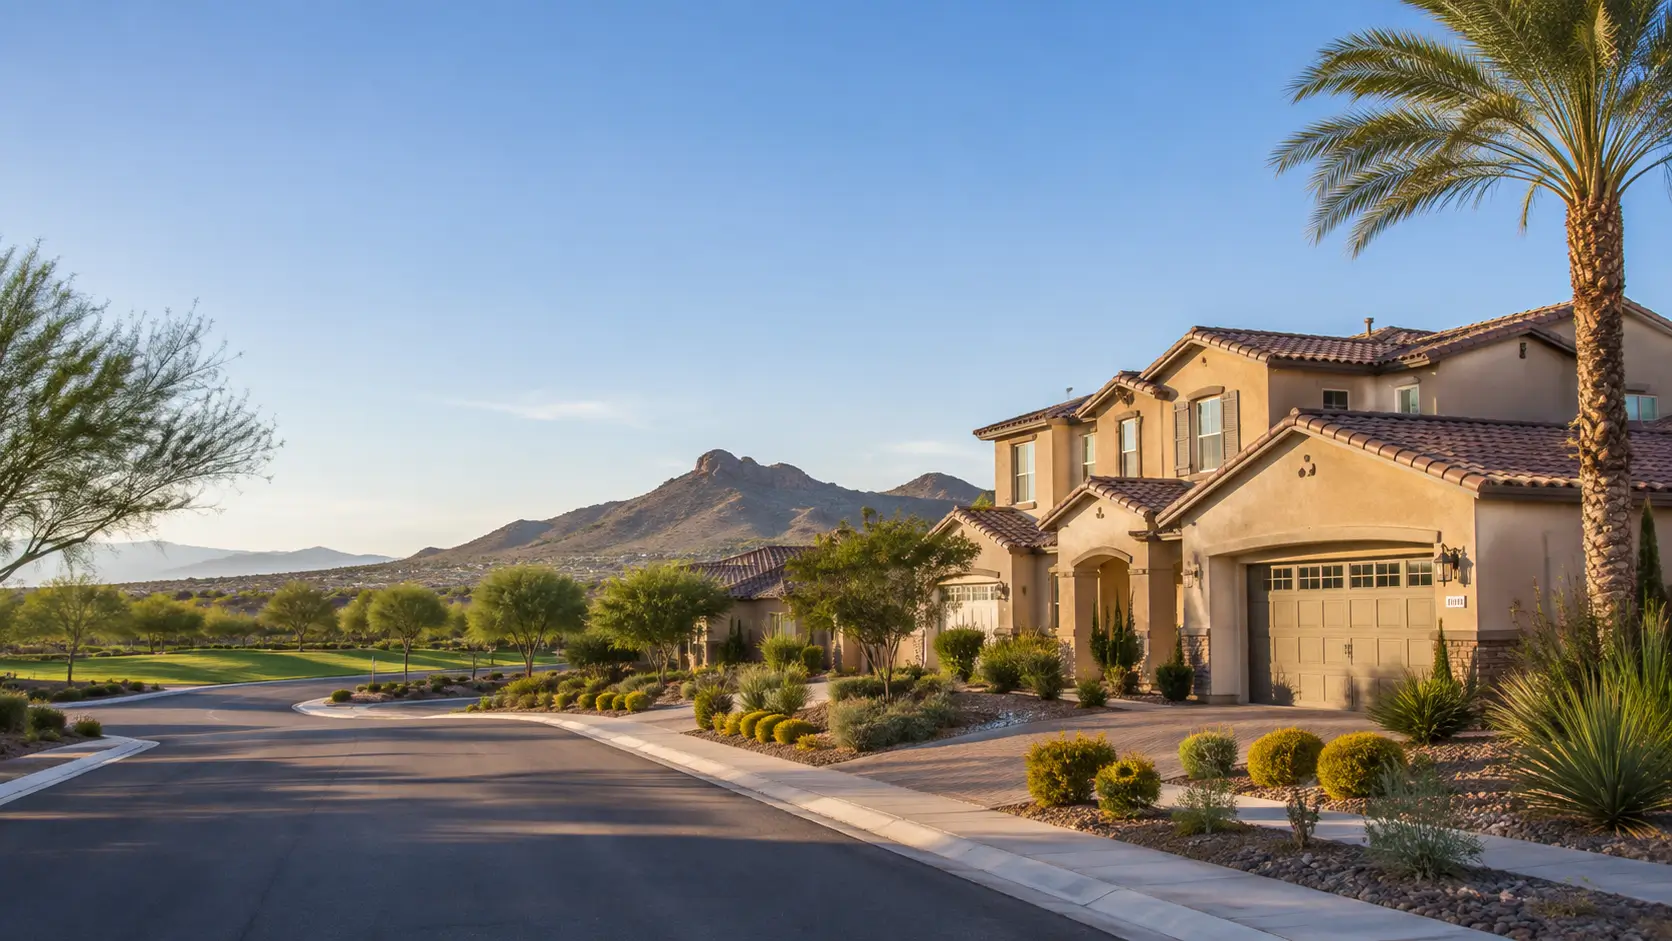
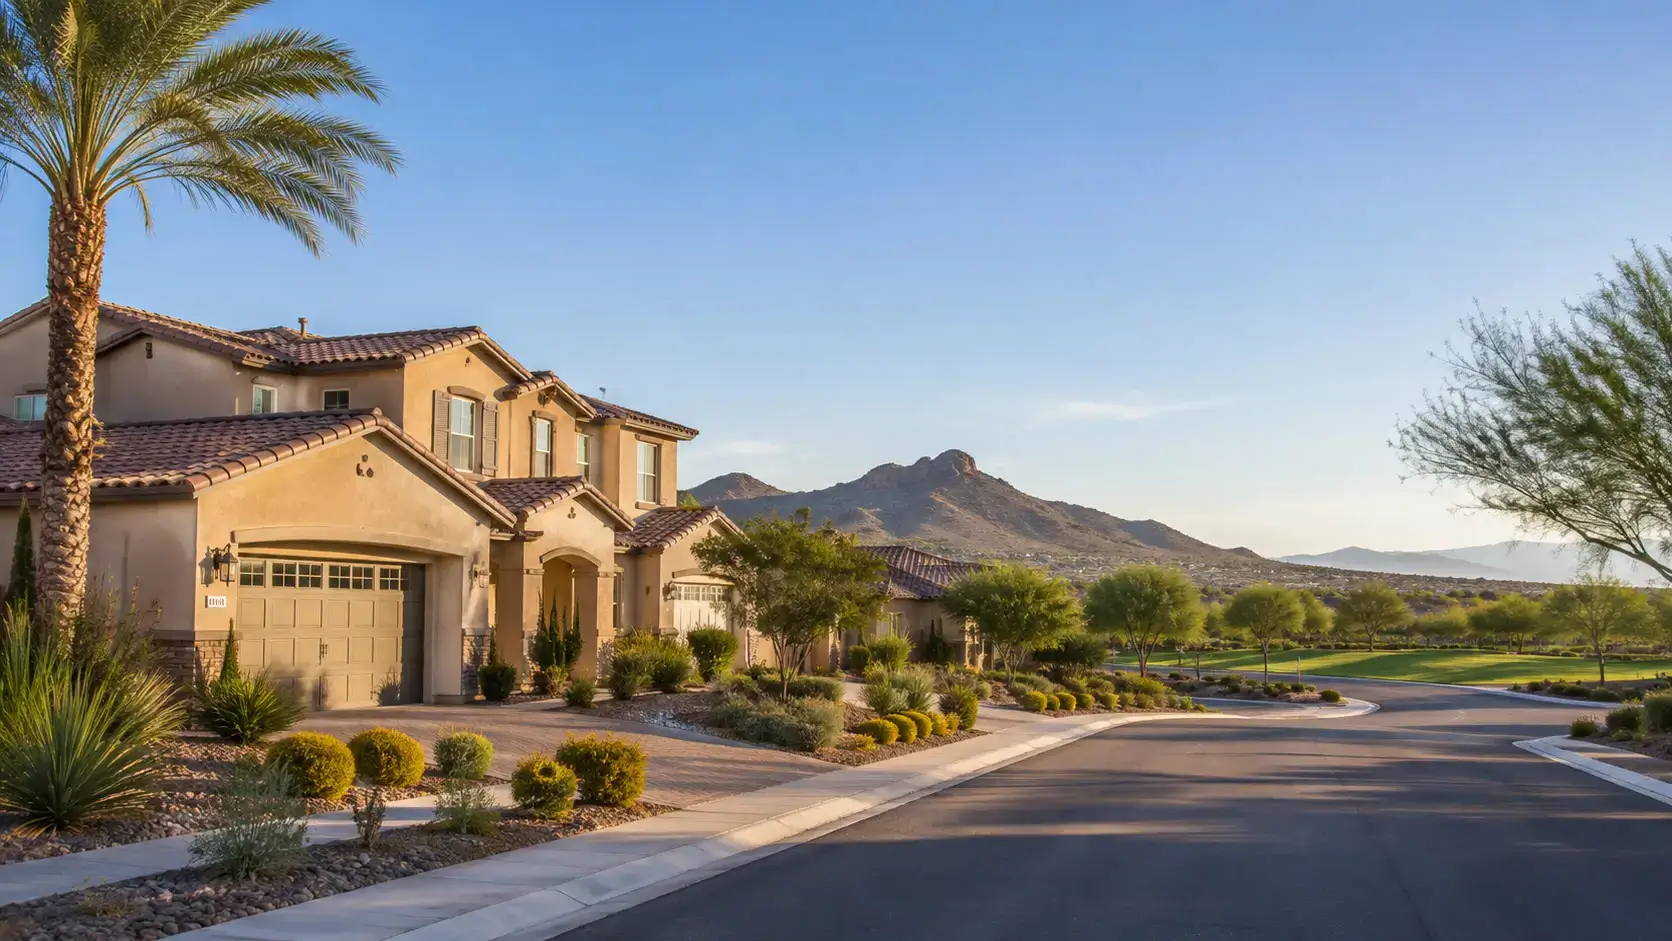
Wire recreated location hero images
The four legacy location heroes were recreated at 1672x941 and renamed from
the bare hero.webp convention to the descriptive names the other seven
already use: henderson, las vegas, spring valley, and summerlin. Eight pages
were repointed and the four superseded files removed.

Summerlin needed the most care. It is the only location hero also serving
service pages, not just its own hub, so it reaches five pages: the hub,
service areas, and the drain cleaning, emergency plumbing, and water heater
pages under summerlin.

All eleven location heroes are now genuine WebP at 1672x941 with descriptive
filenames. Sitewide, pages loading a hero source between 601 and 1200px wide
drop from 13 to 7.

Claude-Session: https://claude.ai/code/session_01GJnhR9w4hiPKo3wLmmKoa5

diff --git a/app/service-areas/page.tsx b/app/service-areas/page.tsx
@@ -103,7 +103,7 @@ type LocationCardData = {
 const LOCATION_CARDS: LocationCardData[] = [
   {
     name: "Las Vegas",
-    image: "/images/locations/las-vegas/hero.webp",
+    image: "/images/locations/las-vegas/red-carpet-plumbing-las-vegas-nv-skyline-location-hero.webp",
     alt: "View of the Las Vegas Strip from above",
     description:
       "Plumbing services for homes and businesses throughout Las Vegas, including residential repair, emergency plumbing, drain cleaning, leak detection, and commercial plumbing.",
@@ -111,7 +111,7 @@ const LOCATION_CARDS: LocationCardData[] = [
   },
   {
     name: "Henderson",
-    image: "/images/locations/henderson/hero.webp",
+    image: "/images/locations/henderson/red-carpet-plumbing-henderson-nv-water-street-district-location-hero.webp",
     alt: "Henderson, Nevada residential district",
     description:
       "Plumbing repair, installation, and emergency service for Henderson homeowners and businesses, including Green Valley and Lake Las Vegas areas.",
@@ -135,7 +135,7 @@ const LOCATION_CARDS: LocationCardData[] = [
   },
   {
     name: "Summerlin",
-    image: "/images/locations/summerlin/hero.webp",
+    image: "/images/locations/summerlin/red-carpet-plumbing-summerlin-nv-red-rock-canyon-location-hero.webp",
     alt: "Summerlin community entrance in Las Vegas",
     description:
       "Plumbing services for Summerlin homes and businesses, including emergency plumbing, drain cleaning, water heater service, leak detection, and repiping.",
@@ -143,7 +143,7 @@ const LOCATION_CARDS: LocationCardData[] = [
   },
   {
     name: "Spring Valley",
-    image: "/images/locations/spring-valley/hero.webp",
+    image: "/images/locations/spring-valley/red-carpet-plumbing-spring-valley-nv-desert-breeze-location-hero.webp",
     alt: "Spring Valley neighborhood near Las Vegas",
     description:
       "Plumbing services for Spring Valley residents and businesses, including emergency response, drain cleaning, leak detection, and water heater service.",
@@ -411,7 +411,7 @@ export default function ServiceAreasPage() {
             />
           }
           backgroundImage={{
-            src: "/images/locations/las-vegas/hero.webp",
+            src: "/images/locations/las-vegas/red-carpet-plumbing-las-vegas-nv-skyline-location-hero.webp",
             alt: "View of the Las Vegas Strip from above",
           }}
         />

diff --git a/app/summerlin/water-heater-repair-installation/page.tsx b/app/summerlin/water-heater-repair-installation/page.tsx
@@ -382,7 +382,7 @@ export default function SummerlinWaterHeaterPage() {
           ctaNote="Licensed plumbers. Transparent pricing. No hidden fees."
           formSlot={<QuoteFormPlaceholder title="Get Water Heater Help" />}
           backgroundImage={{
-            src: "/images/locations/summerlin/hero.webp",
+            src: "/images/locations/summerlin/red-carpet-plumbing-summerlin-nv-red-rock-canyon-location-hero.webp",
             alt: "Licensed water heater repair and installation in Summerlin, NV",
           }}
         />

diff --git a/app/summerlin/drain-cleaning/page.tsx b/app/summerlin/drain-cleaning/page.tsx
@@ -360,7 +360,7 @@ export default function SummerlinDrainCleaningPage() {
           ctaNote="Licensed plumbers. Transparent pricing. No hidden fees."
           formSlot={<QuoteFormPlaceholder title="Get Drain Cleaning Help" />}
           backgroundImage={{
-            src: "/images/locations/summerlin/hero.webp",
+            src: "/images/locations/summerlin/red-carpet-plumbing-summerlin-nv-red-rock-canyon-location-hero.webp",
             alt: "Licensed drain cleaning plumbers serving Summerlin, NV",
           }}
         />

diff --git a/app/spring-valley-plumbing-services/page.tsx b/app/spring-valley-plumbing-services/page.tsx
@@ -391,7 +391,7 @@ export default function SpringValleyPlumbingServicesPage() {
           ctaNote="Licensed plumbers. Transparent pricing. No hidden fees."
           formSlot={<QuoteFormPlaceholder />}
           backgroundImage={{
-            src: "/images/locations/spring-valley/hero.webp",
+            src: "/images/locations/spring-valley/red-carpet-plumbing-spring-valley-nv-desert-breeze-location-hero.webp",
             alt: "Licensed plumbers serving Spring Valley, NV",
           }}
         />

diff --git a/app/henderson-plumbing-services/page.tsx b/app/henderson-plumbing-services/page.tsx
@@ -383,7 +383,7 @@ export default function HendersonPlumbingServicesPage() {
           ctaNote="Licensed plumbers. Transparent pricing. No hidden fees."
           formSlot={<QuoteFormPlaceholder />}
           backgroundImage={{
-            src: "/images/locations/henderson/hero.webp",
+            src: "/images/locations/henderson/red-carpet-plumbing-henderson-nv-water-street-district-location-hero.webp",
             alt: "Licensed plumbers serving Henderson, NV",
           }}
         />

diff --git a/app/summerlin-plumbing-services/page.tsx b/app/summerlin-plumbing-services/page.tsx
@@ -387,7 +387,7 @@ export default function SummerlinPlumbingServicesPage() {
           ctaNote="Licensed plumbers. Transparent pricing. No hidden fees."
           formSlot={<QuoteFormPlaceholder />}
           backgroundImage={{
-            src: "/images/locations/summerlin/hero.webp",
+            src: "/images/locations/summerlin/red-carpet-plumbing-summerlin-nv-red-rock-canyon-location-hero.webp",
             alt: "Licensed plumbers serving Summerlin, NV",
           }}
         />

diff --git a/app/summerlin/emergency-plumbing/page.tsx b/app/summerlin/emergency-plumbing/page.tsx
@@ -357,7 +357,7 @@ export default function SummerlinEmergencyPlumbingPage() {
           ctaNote={HERO_CTA_NOTE}
           formSlot={<QuoteFormPlaceholder title="Get Emergency Plumbing Help" />}
           backgroundImage={{
-            src: "/images/locations/summerlin/hero.webp",
+            src: "/images/locations/summerlin/red-carpet-plumbing-summerlin-nv-red-rock-canyon-location-hero.webp",
             alt: "Emergency plumbing service in Summerlin, NV",
           }}
         />

diff --git a/app/las-vegas-plumbing-services/page.tsx b/app/las-vegas-plumbing-services/page.tsx
@@ -384,7 +384,7 @@ export default function LasVegasPlumbingServicesPage() {
           ctaNote="Licensed plumbers. Transparent pricing. No hidden fees."
           formSlot={<QuoteFormPlaceholder />}
           backgroundImage={{
-            src: "/images/locations/las-vegas/hero.webp",
+            src: "/images/locations/las-vegas/red-carpet-plumbing-las-vegas-nv-skyline-location-hero.webp",
             alt: "Licensed plumbers serving Las Vegas, NV",
           }}
         />

diff --git a/app/plumbing-services/page.tsx b/app/plumbing-services/page.tsx
@@ -385,7 +385,7 @@ export default function PlumbingServicesPage() {
             href: "tel:+17025679172",
           }}
           backgroundImage={{
-            src: "/images/locations/las-vegas/hero.webp",
+            src: "/images/locations/las-vegas/red-carpet-plumbing-las-vegas-nv-skyline-location-hero.webp",
             alt: "Plumbing services in Las Vegas, NV",
           }}
           formSlot={
